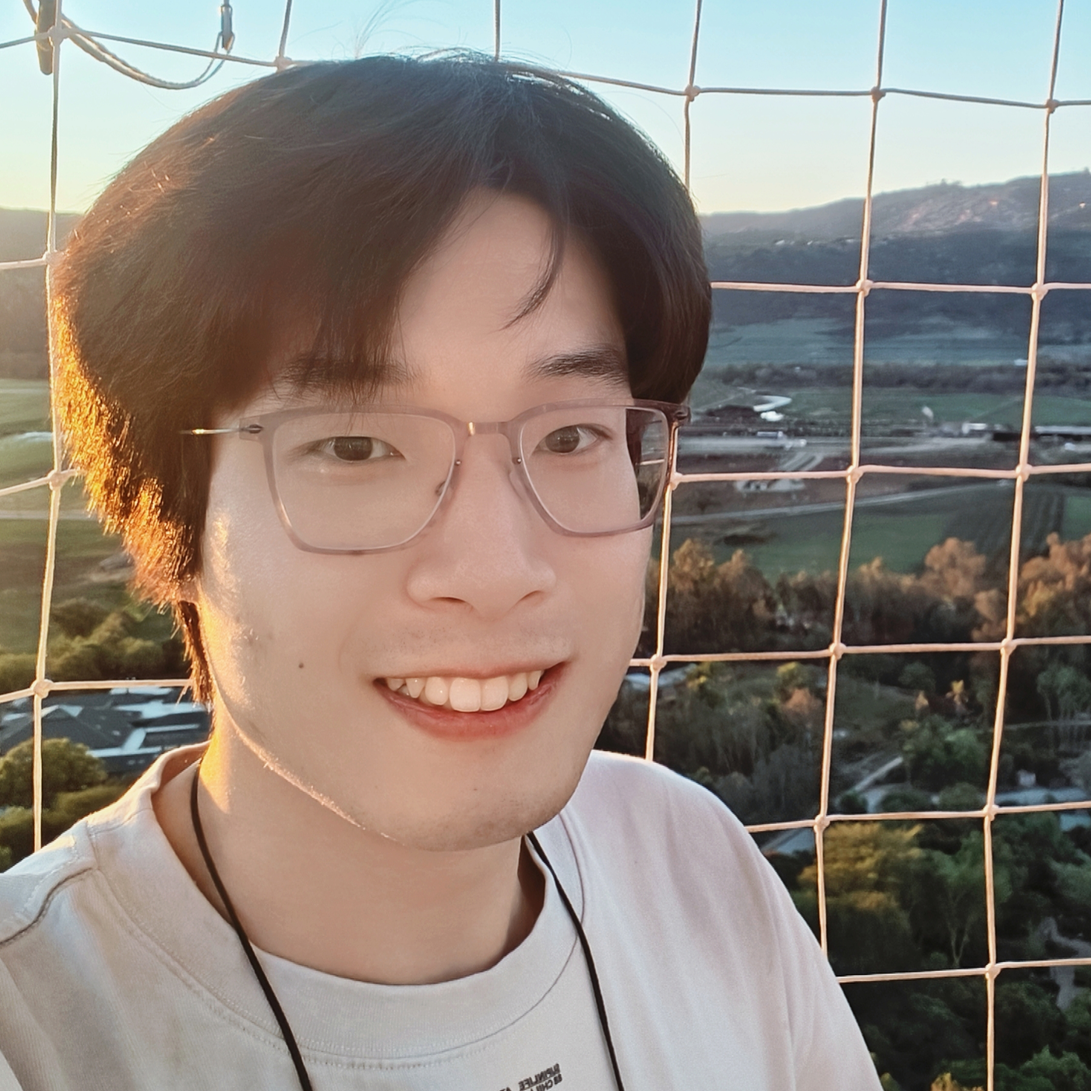
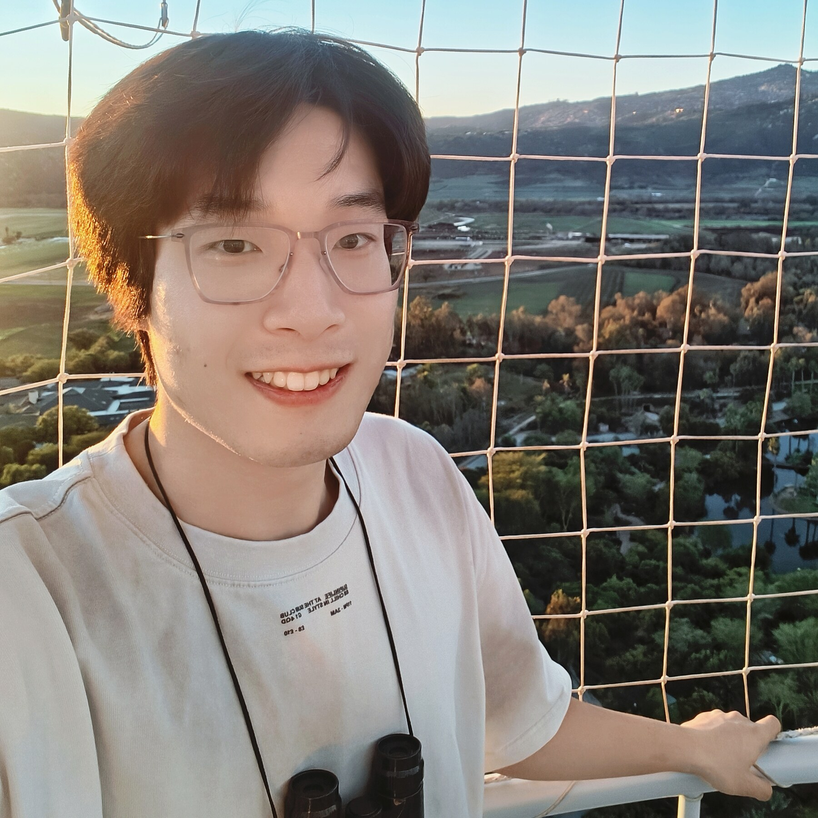
Refine profile photo and publications layout

diff --git a/_pages/publications.md b/_pages/publications.md
@@ -13,7 +13,7 @@ nav_order: 2
 
 <!-- {% include bib_search.liquid %} -->
 
-<div class="publications">
+<div class="publications selected-publications">
 
 {% bibliography %}
 
